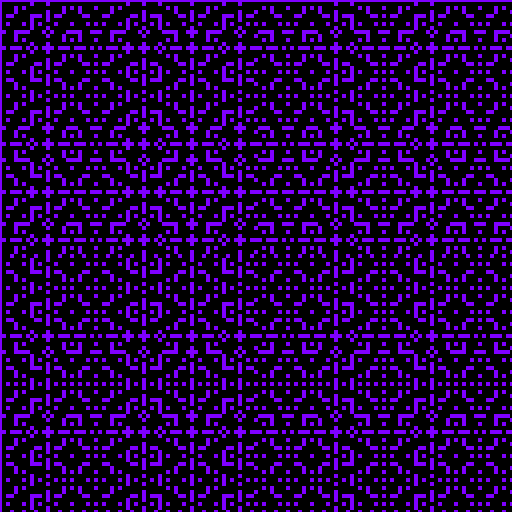
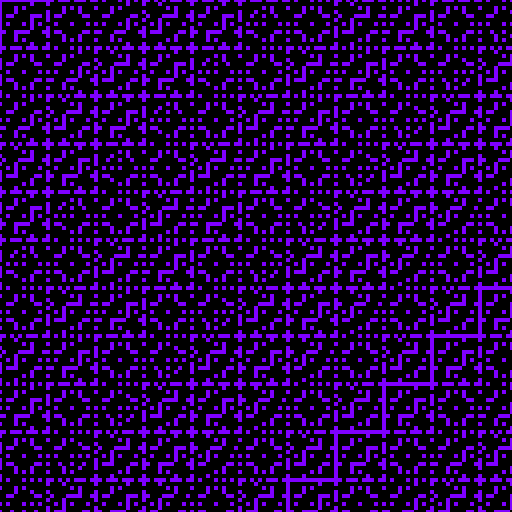
+pattern offset

Changed region(s): [[0.0, 0.0, 1.0, 1.0], [0.7812, 0.7812, 1.0, 1.0]]

diff --git a/jfixby-cv-example/src/example/OrnamentsExample.java b/jfixby-cv-example/src/example/OrnamentsExample.java
@@ -39,12 +39,12 @@ public class OrnamentsExample {
 		image_dimentions.setOriginRelative(0.5, 0.5);
 
 		// ---Список "интересных" параметров
-		List<Integer> interesting = Collections.newList(3 * 2 * 2, 3 * 2 * 2 * 2);
+//		List<Integer> interesting = Collections.newList(3 * 2 * 2, 3 * 2 * 2 * 2);
 
-		for (int divisor = 0; divisor < interesting.size(); divisor++) {
+		for (int divisor = 2; divisor < 30; divisor++) {
 
 			// --- Создаём текстуру--------------------------
-			int DIV = interesting.getElementAt(divisor);
+			int DIV = divisor;
 			λBinaryImage pattern = generatePattern(W, H, DIV);
 
 			// --- Раскрашиваем её ---------------------------
@@ -76,6 +76,14 @@ public class OrnamentsExample {
 		result = XOR.apply(result, div(16));
 		result = XOR.apply(result, div(8));
 		result = XOR.apply(result, div(DIV));
+
+		final λBinaryImage tmp = result;
+
+		result = (x, y) -> {
+			int offset_x = (y / DIV) * DIV;
+			int offset_y = (x / DIV) * DIV;
+			return tmp.valueAt(x + offset_x, y + offset_y);
+		};
 
 		return result;
 	}
